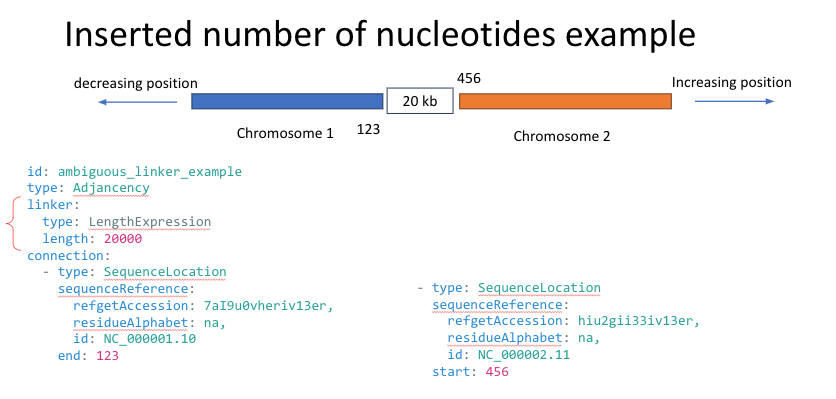
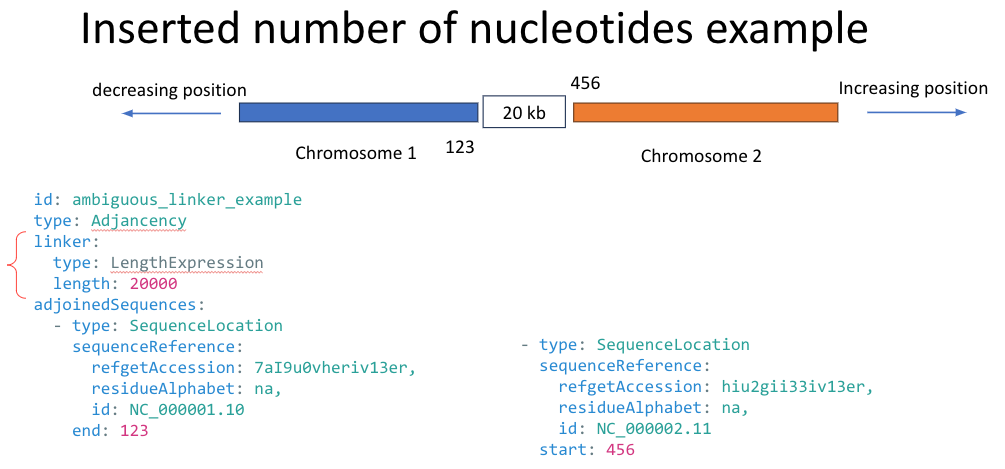
changed `connection` to `adjoinedSequences`

diff --git a/schema/defs/vrs/Haplotype.rst b/schema/defs/vrs/Haplotype.rst
@@ -47,4 +47,4 @@ Some Haplotype attributes are inherited from :ref:`Variation`.
        *  - members
           - :ref:`Adjacency` | :ref:`Allele` | `IRI <gks.common.json#/$defs/IRI>`_
           - 2..m
-          - A list of :ref:`Alleles <Allele>` and :ref:`Adjacencies <Adjacency>` that comprise a Haplotype.  Members must share the same reference sequence as adjacent members. Alleles should not have overlapping or adjacent coordinates with neighboring Alleles. Neighboring alleles should be ordered  by ascending coordinates, unless represented on a DNA inversion (following an end-defined connection), in which case they should be ordered in descending coordinates. Sequence references MUST be consistent for all members between and including the end of one Adjacency and the beginning of  another.
+          - A list of :ref:`Alleles <Allele>` and :ref:`Adjacencies <Adjacency>` that comprise a Haplotype.  Members must share the same reference sequence as adjacent members. Alleles should not have overlapping or adjacent coordinates with neighboring Alleles. Neighboring alleles should be ordered  by ascending coordinates, unless represented on a DNA inversion (following an Adjacency with  end-defined adjoinedSequences), in which case they should be ordered in descending coordinates.  Sequence references MUST be consistent for all members between and including the end of one  Adjacency and the beginning of another.

diff --git a/schema/defs/vrs/Adjacency.rst b/schema/defs/vrs/Adjacency.rst
@@ -1,6 +1,6 @@
 **Computational Definition**
 
-The `Adjacency` class can represent either the termination of a sequence or a connection between the end of a sequence with the beginning of an adjacent sequence, potentially with an intervening linker sequence.
+The `Adjacency` class can represent either the termination of a sequence or the adjoining of the end of a sequence with the beginning of an adjacent sequence, potentially with an intervening linker sequence.
 
     **Information Model**
     
@@ -44,11 +44,11 @@ Some Adjacency attributes are inherited from :ref:`Variation`.
           - :ref:`Expression`
           - 0..m
           - 
-       *  - connection
+       *  - adjoinedSequences
           - `IRI <gks.common.json#/$defs/IRI>`_ | :ref:`Location`
           - 1..2
-          - The connection that defines in the adjacency.
+          - The terminal sequence or pair of adjoined sequences that defines in the adjacency.
        *  - linker
           - :ref:`SequenceExpression`
           - 0..1
-          - The sequence found between a connection's two sequences.
+          - The sequence found between adjoined sequences.
